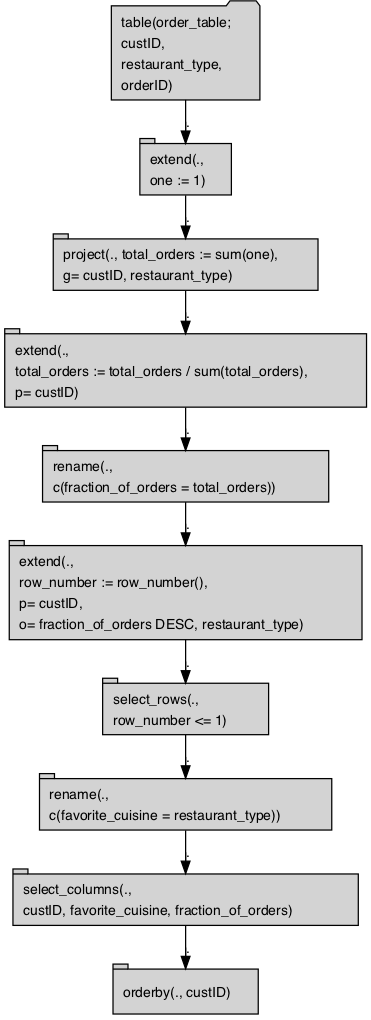
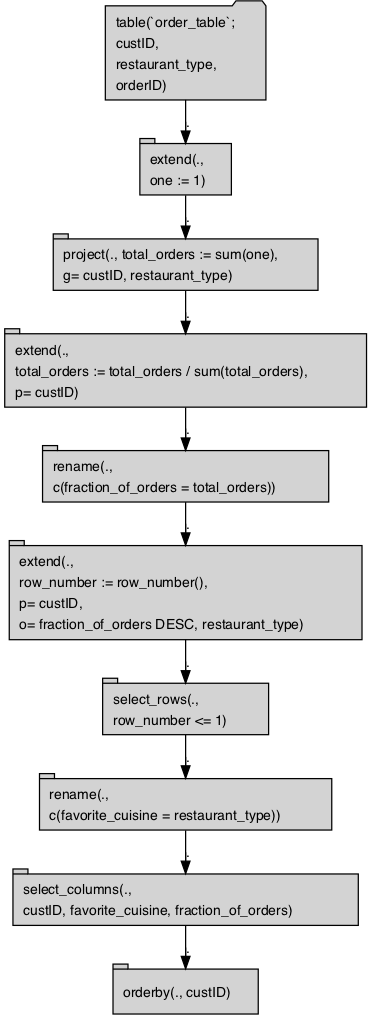
Spark and R document - first draft

Changed region(s): [[0.2668, 0.0, 0.593, 0.1216], [0.6819, 0.0, 0.7412, 0.1216], [0.5337, 0.0, 0.6523, 0.0304]]

diff --git a/extras/SparkR.md b/extras/SparkR.md
@@ -3,57 +3,98 @@ SparkR Example
 Nina Zumel and John Mount, Win-Vector LLC
 07/03/2018
 
-The What and Why of `rquery`
-----------------------------
+`rquery` is a query generator for R. It is based on [Edgar F. Codd’s relational algebra](https://en.wikipedia.org/wiki/Relational_algebra), informed by our experience using SQL and R packages such as `dplyr` at big data scale. In this article we discuss `rquery`, its advantages relative to SQL, and why its database-first design makes it an attractive alternative for working with Spark in R. \[FIX THIS\]
 
-`rquery` is a query generator for R. It is based on [Edgar F. Codd’s relational algebra](https://en.wikipedia.org/wiki/Relational_algebra), informed by our experience using SQL and R packages such as `dplyr` at big data scale.
+Data Transformation and Codd's Relational Algebra
+-------------------------------------------------
 
-The design represents an attempt to make SQL more teachable by denoting composition by a sequential pipeline notation instead of nested queries or functions.
+Codd's relational algebra is a formal algebra that describes the semantics of data transformations and queries. Earlier, hierarchical, databases required tables to be representations of functions or maps. Codd relaxed this requirement, allowing tables that represent more general relations (allowing, for instance, two-way multimaps).
 
-A great benefit of Codd's relational algebra is it gives one concepts to decompose complex data transformations into sequences of simpler transformations.
+Codd's algebra allows most significant data transformations to be decomposed into sequences made up from a smaller set of simpler operations:
 
-Some reasons SQL seems complicated include:
+-   select (row selection)
+-   project (column selection/aggregation)
+-   Cartesian product (table joins, row binding, set difference)
+-   extend (derived columns)
 
-    SQL's realization of sequencing as nested function composition.
-    SQL uses some relational concepts as steps, others as modifiers and predicates.
+The earliest, and still most common, implementation of Codd's algebra is SQL. Formally Codd's algebra assumes that all rows in a table are unique; SQL relaxes this restriction to allow multisets.
 
-A lot of the grace of the Codd theory can be recovered through the usual trick changing function composition notation from g(f(x)) to x . f() . g(). This experiment is asking (and not for the first time): "what if SQL were piped (expressed composition as a left to right flow, instead of a right to left nesting)?"
+`rquery` is another realization of the Codd algebra that implements the above operators, in addition to several commonly used composite operations.
 
-Design Choices for SQL implementation
--------------------------------------
+SQL vs pipelines for data transformation
+----------------------------------------
 
-Stay close to Cod's definitions. In contrast to other R data manipulation packages, rquery does not rely on db-unsafe annotations such as row number or "group by" annotations. Instead, grouped aggregations are implemented via window functions in SQL.
+One issue with SQL, especially for the novice SQL programmer, is that it can be somewhat unintuitive.
 
-How Spark & R developers can benefit from `rquery`
---------------------------------------------------
+-   SQL expresses data transformations as nested function composition.
+-   SQL uses some relational concepts as steps, others as modifiers and predicates.
 
-Domain independent query language that runs on Spark in R via either SparkR or sparklyr, as well as on Postgres and other large data systems.
+For example, suppose you have a table of information about irises, and you want to find the species with the widest petal (on average). In R the steps would be as follows:
 
-R developers can run analyses and perform data transformations in Spark using an easier to read (and to write) sequential pipeline notation instead of nested sql queries.
+1.  Group the table into Species
+2.  Calculate the mean petal width for each Species
+3.  Find the widest mean petal width
+4.  Return the appropriate species
 
-Superior error checking -- verifies column names before going to database
+We can do this in R using `rqdatatable`, an in-memory implementation of `rquery`:
 
-Some query optimization; in particular rquery checks "column liveness" : it checks which columns from a table are involved in a given query, and proactively issues the approprate SELECT statements to narrow the tables being manipulated. Helps with excessively wide tables.
+``` r
+library(rqdatatable)
+```
 
-Well-formatted textual as well as graphicl presentation of query plans.
+    ## Loading required package: rquery
+
+``` r
+data(iris)
+
+iris %>>% {
+  project_nse(., groupby=c('Species'),
+              mean_petal_width = mean(Petal.Width)) %.>%
+  pick_top_k(.,  
+             k = 1,
+             orderby = c('mean_petal_width', 'Species'),
+             reverse = c('mean_petal_width')) %.>% 
+  select_columns(., 'Species')
+}
+```
+
+    ##      Species
+    ## 1: virginica
+
+We could also do the same operation using `dplyr`, another R package with Codd-style operators.
+
+In `rquery`, the original table (`iris`) is at the beginning of the query, with successive operations applied to the results of the preceding line. To perform the equivalent operation in SQL, you must write down the operation "backwards":
+
+    SELECT Species FROM (
+       SELECT Species, mean('Petal.Width') AS mean_petal_width FROM iris
+       GROUP BY Species ) tmp1
+    WHERE mean_petal_width = max(mean_petal_width) /* try to get widest species */
+    ORDER_BY Species /* To make tiebreaking deterministic */
+    LIMIT 1     /* Get only one species back (in case of ties) */
+
+In SQL, the original table is in the *last* SELECT statement, with successive results nested up from there. In addition, column selection directives are at the beginning of a SELECT statement, while row selection criteria (WHERE, LIMIT) and modifiers (GROUP\_BY, ORDER\_BY) are at the end of the statement, with the table in between. So the data transformation goes from the inside of the query to the outside, which can be hard to read -- not to mention hard to write.
+
+`rquery` represents an attempt to make data transformation in a relational database more intuitive by expressing data transformations in a sequential operator pipeline notation instead of nested queries or functions.
+
+`rquery` for Spark/R developers
+-------------------------------
+
+For developers working with Spark and R, `rquery` offers a number of advantages. First, R developers can run analyses and perform data transformations in Spark using an easier to read (and to write) sequential pipeline notation instead of nested SQL queries. As we mentioned above, `dplyr` also supplies this capability, but `dplyr` is not compatible with `SparkR` -- only with `sparklyr`. `rquery` is compatible with both `SparkR` and `sparklyr`, as well as with Postgres and other large data stores. In addition, `dplyr`'s lazy evaluation can complicate the running and debugging of large, complex queries (more on this below).
+
+The design of `rquery` is *database-first*, meaning it was developed specifically to address issues that arise when working with big data in remote data stores via R. `rquery` maintains *complete separation between the query specification and query execution phases*, which allows useful error-checking and some optimization before the query is run. This can be useful when running complex queries on large volumes of data; you don't want to run a long query only to discover that there was an error on the last step.
+
+`rquery` checks column names at query specification time to insure that they are available for use, It also checks which columns from a table are involved with a given query, and proactively issues the appropriate SELECT statements to narrow the tables being manipulated. This can help speed up queries that involve excessively wide tables where only a few columns are needed.
+
+`rquery` also offers well-formatted textual as well as graphical presentation of query plans. In addition, you can expect the generated SQL query before execution.
 
 Example
 -------
 
-Connect to a `SparkR` cluster and work a small example.
+Let's imagine that we run a food delivery business, and we are interested in what types of cuisines ('Mexican', 'Chinese', etc) our customers prefer. We want to sum up the number of orders of each cuisine type (or `restaurant_type`) by customer and compute which cuisine appears to be their favorite, based on what they order the most. We also want to see how strong that preference is, based on what fraction of their orders is of their favorite cuisine.
 
-To install a practice version of `Spark`/`SparkR` v2.3.0 on a stand-alone workstation:
+We'll start with a table of orders, which records order id, customer id, and restaurant type.
 
--   First download Spark 2.3.0 Pre-built for Apache Hadoop 2.7 or later ([spark-2.3.0-bin-hadoop2.7.tgz](https://www.apache.org/dyn/closer.lua/spark/spark-2.3.0/spark-2.3.0-bin-hadoop2.7.tgz)) from [Apache Spark Downloads](https://spark.apache.org/downloads.html).
--   Uncompress this into a directory named `spark-2.3.0-bin-hadoop2.7`.
--   Install `SparkR` from `spark-2.3.0-bin-hadoop2.7/spark-2.3.0-bin-hadoop2.7/R/lib/SparkR`: `install.packages("~/Downloads/spark-2.3.0-bin-hadoop2.7/R/lib/SparkR/", repos = NULL, type = "source")`.
--   Use `SparkR` package to install its own local `Spark`: `SparkR::install.spark()` (based on [sparkr-vignettes.Rmd](https://github.com/apache/spark/blob/master/R/pkg/vignettes/sparkr-vignettes.Rmd)).
-
-Let's imagine that we run a food delivery business, and we are interested in what types of cuisines ('Mexican', 'Chinese', etc) our customers prefer. We a
-
-[`rquery`](https://winvector.github.io/rquery/) example.
-
-Let's assume that we already have the data
+To work with the data using `rquery`, we need an rquery handle to the Spark cluster. Since `rquery` interfaces with many different types of SQL-dialect data stores, it needs an adapter to translate `rquery` functions into the appropriate SQL dialect. The default handler assumes a DBI-adapted database. Since `SparkR` is not DBI-adapted, we must define the handler explicitly, using the function `rquery::rquery_db_info()`. The code for the adapter is here \[LINK\]. Let's assume that we have created the handler as `db_hdl`.
 
 ``` r
 library("rquery")
@@ -61,35 +102,25 @@ library("rquery")
 print(db_hdl) # rquery handle into Spark
 ```
 
-    ## [1] "rquery_db_info(is_dbi=FALSE, SparkR, <environment: 0x7f9bb09c1610>)"
+    ## [1] "rquery_db_info(is_dbi=FALSE, SparkR, <environment: 0x7f88f24ac3e0>)"
+
+Let's assume that we already have the data in Spark, as `order_table`. To work with the table in `rquery`, we must generate a *table description*, using the function `db_td()`.
 
 ``` r
-order_f <- SparkR::tableToDF("order_table")
-print(order_f)
-```
-
-    ## SparkDataFrame[custID:string, restaurant_type:string, orderID:int]
-
-``` r
-#
-# create an rquery table description of the SparkDataFrame
-#
-
-# get the table's column names
-cols <- SparkR::colnames(order_f)
-# create the rquery table description
-table_description <- mk_td("order_table", cols)
+table_description = db_td(db_hdl, "order_table")
 
 print(table_description)
 ```
 
-    ## [1] "table('order_table'; custID, restaurant_type, orderID)"
+    ## [1] "table('`order_table`'; custID, restaurant_type, orderID)"
 
 ``` r
 print(column_names(table_description))
 ```
 
     ## [1] "custID"          "restaurant_type" "orderID"
+
+Now we can compose the necessary processing pipeline (or *operator tree*), using `rquery`'s Codd-style steps and operators:
 
 ``` r
 rquery_pipeline <- table_description %.>%
@@ -113,11 +144,13 @@ rquery_pipeline <- table_description %.>%
   orderby(., cols = 'custID')
 ```
 
+Before executing the pipeline, you can inspect it, either as text:
+
 ``` r
 cat(format(rquery_pipeline))
 ```
 
-    ## table('order_table'; 
+    ## table('`order_table`'; 
     ##   custID,
     ##   restaurant_type,
     ##   orderID) %.>%
@@ -142,18 +175,23 @@ cat(format(rquery_pipeline))
     ##    custID, favorite_cuisine, fraction_of_orders) %.>%
     ##  orderby(., custID)
 
+or as a operator diagram (using the package `DiagrammeR`):
+
 ``` r
 rquery_pipeline %.>%
   op_diagram(.) %.>% 
-  DiagrammeR::DiagrammeR(diagram = ., type = "grViz") %.>% 
-  DiagrammeRsvg::export_svg(.) %.>% 
-  charToRaw(.) %.>%
-  rsvg::rsvg_png(., file = "Sparkr_files/diagram1.png")
+  DiagrammeR::DiagrammeR(diagram = ., type = "grViz")
 ```
 
 ![](Sparkr_files/diagram1.png)
 
-Note that rquery knows not to use orderID
+Notice that the `normalize_cols` and `pick_top_k` steps were decomposed into more basic Codd operators (for example, the *extend* and *select\_rows* nodes). You can also inspect what tables are used in the pipeline, and which columns in those tables are involved.
+
+``` r
+tables_used(rquery_pipeline)
+```
+
+    ## [1] "order_table"
 
 ``` r
 columns_used(rquery_pipeline)
@@ -162,24 +200,7 @@ columns_used(rquery_pipeline)
     ## $order_table
     ## [1] "custID"          "restaurant_type"
 
-``` r
-execute(db_hdl, rquery_pipeline) %.>%
-  knitr::kable(.)
-```
-
-| custID  | favorite\_cuisine |  fraction\_of\_orders|
-|:--------|:------------------|---------------------:|
-| cust\_1 | Italian           |             0.3225806|
-| cust\_2 | Italian           |             0.3125000|
-| cust\_3 | Indian            |             0.2857143|
-| cust\_4 | American          |             0.2916667|
-| cust\_5 | American          |             0.2857143|
-| cust\_6 | Italian           |             0.2800000|
-| cust\_7 | American          |             0.2400000|
-| cust\_8 | Indian            |             0.2903226|
-| cust\_9 | Chinese           |             0.3000000|
-
-Print the SQL. Notice that orderID is already eliminated in the initial select (tsql\_\*\_0000000000)
+If you want, you can inspect the (complex and heavily nested) SQL query that will be executed in the cluster. Notice that the column `orderID`, which is not involved in this query, is already eliminated in the initial SELECT (tsql\_\*\_0000000000). Winnowing the initial tables down to only the columns used can be a big performance improvement when you are working with excessively wide tables, and using only a few columns.
 
 ``` r
 cat(to_sql(rquery_pipeline, db_hdl))
@@ -224,18 +245,39 @@ cat(to_sql(rquery_pipeline, db_hdl))
     ##           `restaurant_type`
     ##          FROM
     ##           `order_table`
-    ##          ) tsql_61541625243242887727_0000000000
-    ##         ) tsql_61541625243242887727_0000000001
+    ##          ) tsql_80822542854048008991_0000000000
+    ##         ) tsql_80822542854048008991_0000000001
     ##        GROUP BY
     ##         `custID`, `restaurant_type`
-    ##        ) tsql_61541625243242887727_0000000002
-    ##      ) tsql_61541625243242887727_0000000003
-    ##      ) tsql_61541625243242887727_0000000004
-    ##    ) tsql_61541625243242887727_0000000005
+    ##        ) tsql_80822542854048008991_0000000002
+    ##      ) tsql_80822542854048008991_0000000003
+    ##      ) tsql_80822542854048008991_0000000004
+    ##    ) tsql_80822542854048008991_0000000005
     ##    WHERE `row_number` <= 1
-    ##   ) tsql_61541625243242887727_0000000006
-    ##  ) tsql_61541625243242887727_0000000007
-    ## ) tsql_61541625243242887727_0000000008 ORDER BY `custID`
+    ##   ) tsql_80822542854048008991_0000000006
+    ##  ) tsql_80822542854048008991_0000000007
+    ## ) tsql_80822542854048008991_0000000008 ORDER BY `custID`
+
+Finally, we can execute the query in the cluster. Note that this same pipeline could also be executed using a `sparklyr` connection.
+
+``` r
+execute(db_hdl, rquery_pipeline) %.>%
+  knitr::kable(.)
+```
+
+| custID  | favorite\_cuisine |  fraction\_of\_orders|
+|:--------|:------------------|---------------------:|
+| cust\_1 | Italian           |             0.3225806|
+| cust\_2 | Italian           |             0.3125000|
+| cust\_3 | Indian            |             0.2857143|
+| cust\_4 | American          |             0.2916667|
+| cust\_5 | American          |             0.2857143|
+| cust\_6 | Italian           |             0.2800000|
+| cust\_7 | American          |             0.2400000|
+| cust\_8 | Indian            |             0.2903226|
+| cust\_9 | Chinese           |             0.3000000|
+
+Since many R programmers are familiar with `dplyr`, we can compare `dplyr`'s operators to those of `rquery` (and verify that the calculation is correct), by processing a local copy of the data with `dplyr`.
 
 ``` r
 library(dplyr)
@@ -253,6 +295,9 @@ library(dplyr)
     ##     intersect, setdiff, setequal, union
 
 ``` r
+# get the SparkDataFrame by name
+order_f = SparkR::tableToDF("order_table")
+
 order_f %>% 
   SparkR::as.data.frame() %>%
   group_by(custID, restaurant_type) %>%
@@ -284,10 +329,14 @@ order_f %>%
 | cust\_8 | Indian            |             0.2903226|
 | cust\_9 | Chinese           |             0.3000000|
 
-Note you MUST use "%.&gt;%" (aka wrapr dot-arrow) rather than the magrittr pipe for this next step.
+As we mentioned above, `rquery` was designed to work with a variety of SQL-backed data stores; you only need an appropriate adapter. As you saw above, we have also adapted the `rquery` grammar for in-memory use, using `datatable` as the back-end implementation. This local implementation is in the package `rqdatatable`. One of the cool features of the `rquery` grammar is that the `rquery` operator trees and pipelines are back-end independent. This means you can use the pipeline that we created above with Spark through either `SparkR` or `sparklyr`, or on another data source like Postgres (assuming the table on Postgress has the same structure). You can also use the pipeline on local copies of the data, with `rqdatatable`, as we show below.
+
+Note that you MUST use "%.&gt;%" (aka the "dot-arrow" from the `wrapr` package) rather than the magrittr pipe for this next step.
 
 ``` r
-library(rqdatatable)  # automatically registers rqdatatable as the default executor for rquery pipelines
+library(rqdatatable)  
+# this automatically registers rqdatatable as the default executor 
+# for rquery pipelines
 
 SparkR::as.data.frame(order_f) %.>%
   rquery_pipeline %.>%
@@ -305,3 +354,10 @@ SparkR::as.data.frame(order_f) %.>%
 | cust\_7 | American          |             0.2400000|
 | cust\_8 | Indian            |             0.2903226|
 | cust\_9 | Chinese           |             0.3000000|
+
+This feature can be quite useful for "rehearsals" of complex data manipulation/analysis processes, where you'd like to develop and debug the data process quickly, using smaller local versions of the relevant data tables before executing them on the remote system.
+
+Conclusion
+----------
+
+blah blah blah
